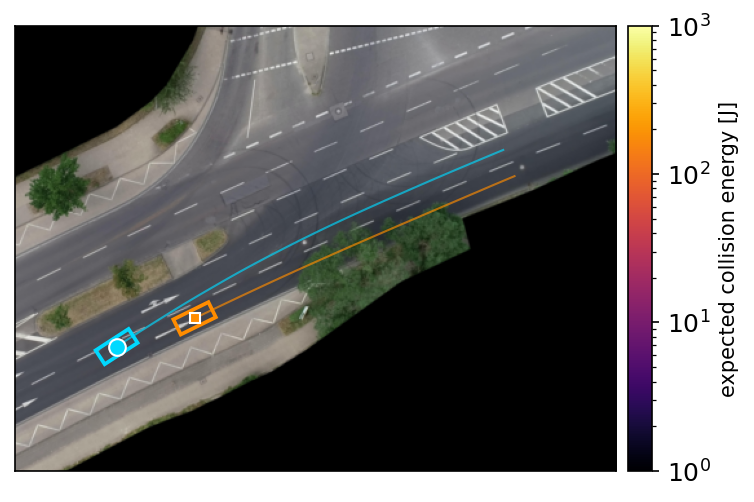
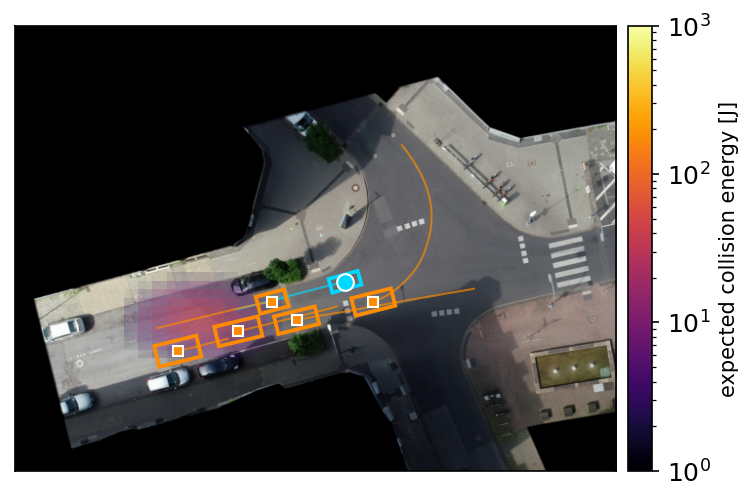
Sync InD Scene A with paper: 12860 -> 44040 (proximity != severity)
Match the paper's fig:qualitative Scene A swap: replace the blank-field
parallel pass with a low-speed crossing onto stopped traffic (PET 0.00s,
the tighter near-miss, yet only 34 J because the closing speed is low) —
a clearer illustration than an empty risk panel.

diff --git a/index.html b/index.html
@@ -176,7 +176,7 @@ footer a{color:var(--ink)}
     <p class="lead note">The field is shown at its peak-risk frame (intersections) and as an evolution strip (congested highway): the heat — expected collision energy in joules — is rendered on a single shared <b>logarithmic</b> scale, so the same colour means the same physical energy across every dataset. No threshold or per-dataset calibration is involved.</p>
     <div class="grid2" style="margin-top:24px">
       <figure class="card"><img src="static/images/ind_crit_risk.png" alt="InD intersection conflict risk field" loading="lazy"/><figcaption><b>InD · head-on conflict.</b> A near-head-on crossing (closing speed 9.2&#8202;m/s): the two-model field concentrates a 252&#8202;J peak where the ego's predicted occupancy meets the crossing agent.</figcaption></figure>
-      <figure class="card"><img src="static/images/ind_ncrit_risk.png" alt="InD benign parallel pass" loading="lazy"/><figcaption><b>InD · benign pass.</b> A fast but near-parallel pass (closing speed 0.3&#8202;m/s): despite overlapping occupancy the risk panel stays dark — the closing-speed severity correctly judges it safe.</figcaption></figure>
+      <figure class="card"><img src="static/images/ind_ncrit_risk.png" alt="InD low-speed crossing onto stopped traffic" loading="lazy"/><figcaption><b>InD · proximity &#8800; severity.</b> A low-speed turn onto a queue of stopped cars: the geometrically <em>tighter</em> near-miss (boxes momentarily touch) but only a 2.8&#8202;m/s closing speed, so the field stays modest (34&#8202;J). Energy tracks closing speed, not proximity.</figcaption></figure>
     </div>
     <div style="height:22px"></div>
     <figure class="card"><img src="static/images/ad4che_site17_evo.png" alt="AD4CHE congested-highway risk evolution" loading="lazy"/><figcaption><b>AD4CHE · risk evolution (high-speed closing).</b> Three key frames (current → mid-horizon → peak): the ego is nearly stopped in congestion while a vehicle closes at ~25&#8202;m/s; risk blooms to a sharp 948&#8202;J peak at the forecast meeting point, then relaxes.</figcaption></figure>
